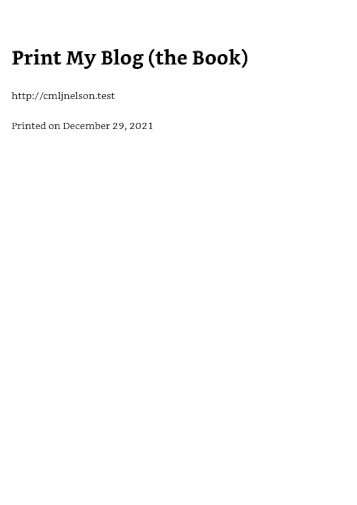
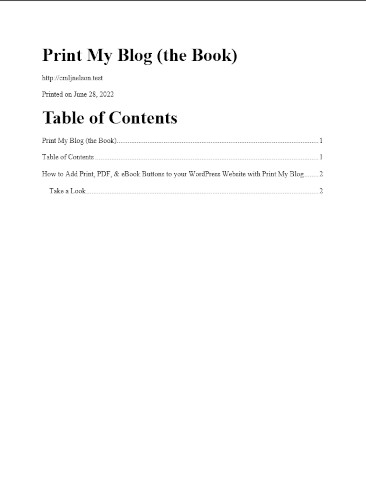
update preview images for word docs

Changed region(s): [[0.0308, 0.0881, 0.7087, 0.2055], [0.1232, 0.2935, 0.8319, 0.4109], [0.0308, 0.2348, 0.493, 0.2642]]

diff --git a/src/PrintMyBlog/domain/DefaultDesignTemplates.php b/src/PrintMyBlog/domain/DefaultDesignTemplates.php
@@ -624,12 +624,6 @@ class DefaultDesignTemplates
                                                 'html_help_text' => __('Project Author(s)', 'print-my-blog'),
                                             ]
                                         ),
-                                        'post_content' => new TextAreaInput(
-                                            [
-                                                'html_label_text' => __('Description', 'print-my-blog'),
-                                                'html_help_text' => __('Shown as eBook metadata.', 'print-my-blog')
-                                            ]
-                                        ),
                                     ]
                                 ]
                             )

diff --git a/printmyblog.php b/printmyblog.php
@@ -9,7 +9,7 @@
  * Description: Make printing your blog easy and impressive. For you & your visitors. One post or thousands.
  * Author: Michael Nelson
  * Author URI: https://printmy.blog
- * Version: "3.16.0-word-docs"
+ * Version: "3.16.1-word-docs"
  * Requires at least: 4.7
  * Requires PHP: 5.4
  * Text Domain: print-my-blog
@@ -121,7 +121,7 @@ version_compare(
     add_action('admin_notices', 'pmb_minimum_wp_version_error', 1, 0);
 } else {
     // it's all good! go for it!
-    define('PMB_VERSION', '3.16.0');
+    define('PMB_VERSION', '3.16.1');
     define('PMB_DIR', wp_normalize_path(__DIR__) . '/');
     define('PMB_MAIN_FILE', __FILE__);
     define('PMB_TEMPLATES_DIR', PMB_DIR . 'templates/');

diff --git a/src/PrintMyBlog/domain/DefaultDesigns.php b/src/PrintMyBlog/domain/DefaultDesigns.php
@@ -346,7 +346,7 @@ class DefaultDesigns
                         [
                             'url' => $design_template->getUrl() . 'assets/preview1.jpg',
                             'desc' => __(
-                                'Title page and table of contents..',
+                                'Title page and table of contents.',
                                 'print-my-blog'
                             )
                         ],

diff --git a/src/PrintMyBlog/domain/DefaultSectionTemplates.php b/src/PrintMyBlog/domain/DefaultSectionTemplates.php
@@ -21,6 +21,7 @@ class DefaultSectionTemplates
                 'mayer',
                 'classic_print',
                 'classic_epub',
+                'classic_word'
             ],
             function () {
                 return [
